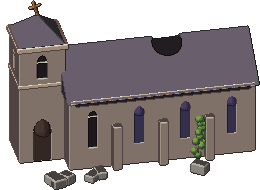
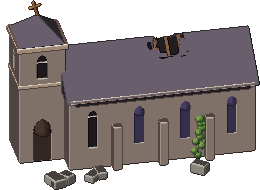
fix: murmure des échos net et brèche du toit de l'église cassée (vérifications sur Mac)

Changed region(s): [[0.5538, 0.1579, 0.7385, 0.3158]]

diff --git a/tools/sprites/props/buildings.py b/tools/sprites/props/buildings.py
@@ -298,13 +298,13 @@ def church(stem: str, seed: int, mirrored: bool) -> PropModel:
     """Église de quartier, repère rare (plan 08 P2) : nef longée de contreforts et de hautes baies en ogive, clocher
     à une extrémité avec abat-sons et flèche basse, croix penchée. Toit de la nef crevé, gravats devant le portail.
     Le clocher dépasse les immeubles voisins sans sortir de la hauteur permise (~190 px)."""
-    STONE, TRIM, GLASS, ROOF, DOOR, MOSS, RUBBLE, INTERIOR, BRONZE = range(9)
+    STONE, TRIM, GLASS, ROOF, DOOR, MOSS, RUBBLE, INTERIOR, BRONZE, BEAM = range(10)
     materials = [
         make_material("stone", "#9C9384"), make_material("trim", "#BDB39C"),
         make_material("glass", "#3A3456", contrast=0.6), make_material("roof", "#4E4A54"),
         make_material("door", "#3A2E28", contrast=0.6), make_material("moss", "#5A7A38"),
         make_material("rubble", "#8A857C"), make_material("interior", "#1E1A1D", contrast=0.4),
-        make_material("bronze", "#8A6A3A"),
+        make_material("bronze", "#8A6A3A"), make_material("beam", "#6E4E36", contrast=0.7),
     ]
     w = Weathering(seed)
     half_w = 4 * CELL_WIDTH * 0.46
@@ -344,6 +344,13 @@ def church(stem: str, seed: int, mirrored: bool) -> PropModel:
         portal = ogive(p, tower_x, 0.0, 2.0 * M, 0.55 * M, tower, 0.25 * M)
         return _union(bays_cut, belfry, portal)
 
+    def breach_cut(p: np.ndarray) -> np.ndarray:
+        # Brèche cassée le long des tuiles (rangs de 0,3 m, tuiles de 0,4 m), comme les immeubles (plan 08 P2) :
+        # un bord en dents de scie au lieu d'un disque net.
+        cell = np.floor(p / np.array([0.4 * M, 0.3 * M, 0.3 * M]))
+        jag = (_hash(cell[:, 0], cell[:, 1], cell[:, 2] + seed) - 0.5) * 0.8 * M
+        return sphere(p, breach, 1.3 * M) - jag
+
     def nave_roof(p: np.ndarray) -> np.ndarray:
         local = p - np.array([nave_cx, wall_h, 0])
         slope = (np.abs(local[:, 2]) * ridge / (nave_d + 0.3 * M) + local[:, 1] - ridge) / np.sqrt(1 + (ridge / nave_d) ** 2)
@@ -365,7 +372,7 @@ def church(stem: str, seed: int, mirrored: bool) -> PropModel:
         body = _union(nave, gable, _box(p, (tower_x, tower_h / 2, 0), (tower, tower_h / 2, tower)))
         buttresses = _union(*(_box(p, (x + (2 * nave_hw) / 8, 1.4 * M, nave_d + 0.25 * M), (0.22 * M, 1.4 * M, 0.3 * M))
                               for x in bays[:-1]))
-        return np.maximum(_union(body, buttresses), -_union(openings(p), sphere(p, breach, 1.3 * M)))
+        return np.maximum(_union(body, buttresses), -_union(openings(p), breach_cut(p)))
 
     def inside(p: np.ndarray) -> np.ndarray:
         under_roof = np.maximum(nave_roof(p + np.array([0, 0.2 * M, 0])), np.abs(p[:, 0] - nave_cx) - (nave_hw - 0.3 * M))
@@ -382,7 +389,13 @@ def church(stem: str, seed: int, mirrored: bool) -> PropModel:
         return np.maximum(_union(cornice, band, eaves), -openings(p))
 
     def roof(p: np.ndarray) -> np.ndarray:
-        return _union(np.maximum(nave_roof(p), -sphere(p, breach, 1.3 * M)), spire(p))
+        return _union(np.maximum(nave_roof(p), -breach_cut(p)), spire(p))
+
+    def rafters(p: np.ndarray) -> np.ndarray:
+        # Chevrons restés en place sous les tuiles tombées : la brèche se lit comme un toit crevé, pas comme un trou.
+        under = np.abs(nave_roof(p + np.array([0, 0.2 * M, 0]))) - 0.08 * M
+        strips = _union(*(np.abs(p[:, 0] - (breach[0] + k * 0.75 * M)) - 0.08 * M for k in (-1, 0, 1)))
+        return np.maximum(np.maximum(under, strips), sphere(p, breach, 1.6 * M))
 
     def cross(p: np.ndarray) -> np.ndarray:
         # Croix de fer penchée par le temps.
@@ -409,7 +422,7 @@ def church(stem: str, seed: int, mirrored: bool) -> PropModel:
     flip = np.array([-1.0 if mirrored else 1.0, 1.0, 1.0])
 
     def parts() -> list[Part]:
-        volumes = [(inside, INTERIOR), (walls, STONE), (glass, GLASS), (trim, TRIM), (roof, ROOF), (cross, BRONZE),
+        volumes = [(inside, INTERIOR), (walls, STONE), (glass, GLASS), (trim, TRIM), (roof, ROOF), (rafters, BEAM), (cross, BRONZE),
                    (bell, BRONZE), (door, DOOR), (moss, MOSS), (rubble_part, RUBBLE)]
         return [Part(lambda p, f=f: f(p * flip), material) for f, material in volumes]
 

diff --git a/scripts/World/ErasureEchoes.cs b/scripts/World/ErasureEchoes.cs
@@ -19,6 +19,7 @@ public partial class ErasureEchoes : Node2D
     private const int SpawnAttempts = 8;
     private const float RetryDelaySec = 3f;
     private const float WalkCheckSec = 0.5f;
+    private const float WhisperScale = 0.5f;
     // Cadre des sprites de personnages (32×48) : pieds à (16, 36), comme au camp du Hub.
     private static readonly Vector2 FrameFeet = new(16f, 36f);
     private static readonly StringName PresenceParam = "presence";
@@ -83,11 +84,14 @@ public partial class ErasureEchoes : Node2D
             ZIndex = 30,
             ZAsRelative = false,
             Visible = false,
+            // Rastérisé au double puis réduit : la caméra zoome ×2, le texte reste net au lieu d'un 9 px agrandi.
+            Scale = Vector2.One * WhisperScale,
         };
-        _whisper.AddThemeFontSizeOverride("font_size", 9);
+        _whisper.AddThemeFontOverride("font", GD.Load<Font>("res://assets/fonts/saira/SairaSemiCondensed-SemiBold.ttf"));
+        _whisper.AddThemeFontSizeOverride("font_size", 18);
         _whisper.AddThemeColorOverride("font_color", new Color(0.86f, 0.9f, 0.95f));
         _whisper.AddThemeColorOverride("font_outline_color", new Color(0.12f, 0.14f, 0.2f, 0.85f));
-        _whisper.AddThemeConstantOverride("outline_size", 3);
+        _whisper.AddThemeConstantOverride("outline_size", 6);
         AddChild(_whisper);
 
         _rng.Randomize();
@@ -229,7 +233,7 @@ public partial class ErasureEchoes : Node2D
         int index = _rng.RandiRange(1, _config.WhisperCount);
         _whisper.Text = Tr($"ECHO_WHISPER_{index:00}");
         _whisper.ResetSize();
-        _whisperOrigin = new Vector2(-_whisper.Size.X * 0.5f, -FrameFeet.Y - 14f);
+        _whisperOrigin = new Vector2(-_whisper.Size.X * WhisperScale * 0.5f, -FrameFeet.Y - 14f);
         _whisper.Position = _whisperOrigin;
         _whisper.Modulate = Colors.White;
         _whisper.Visible = true;
